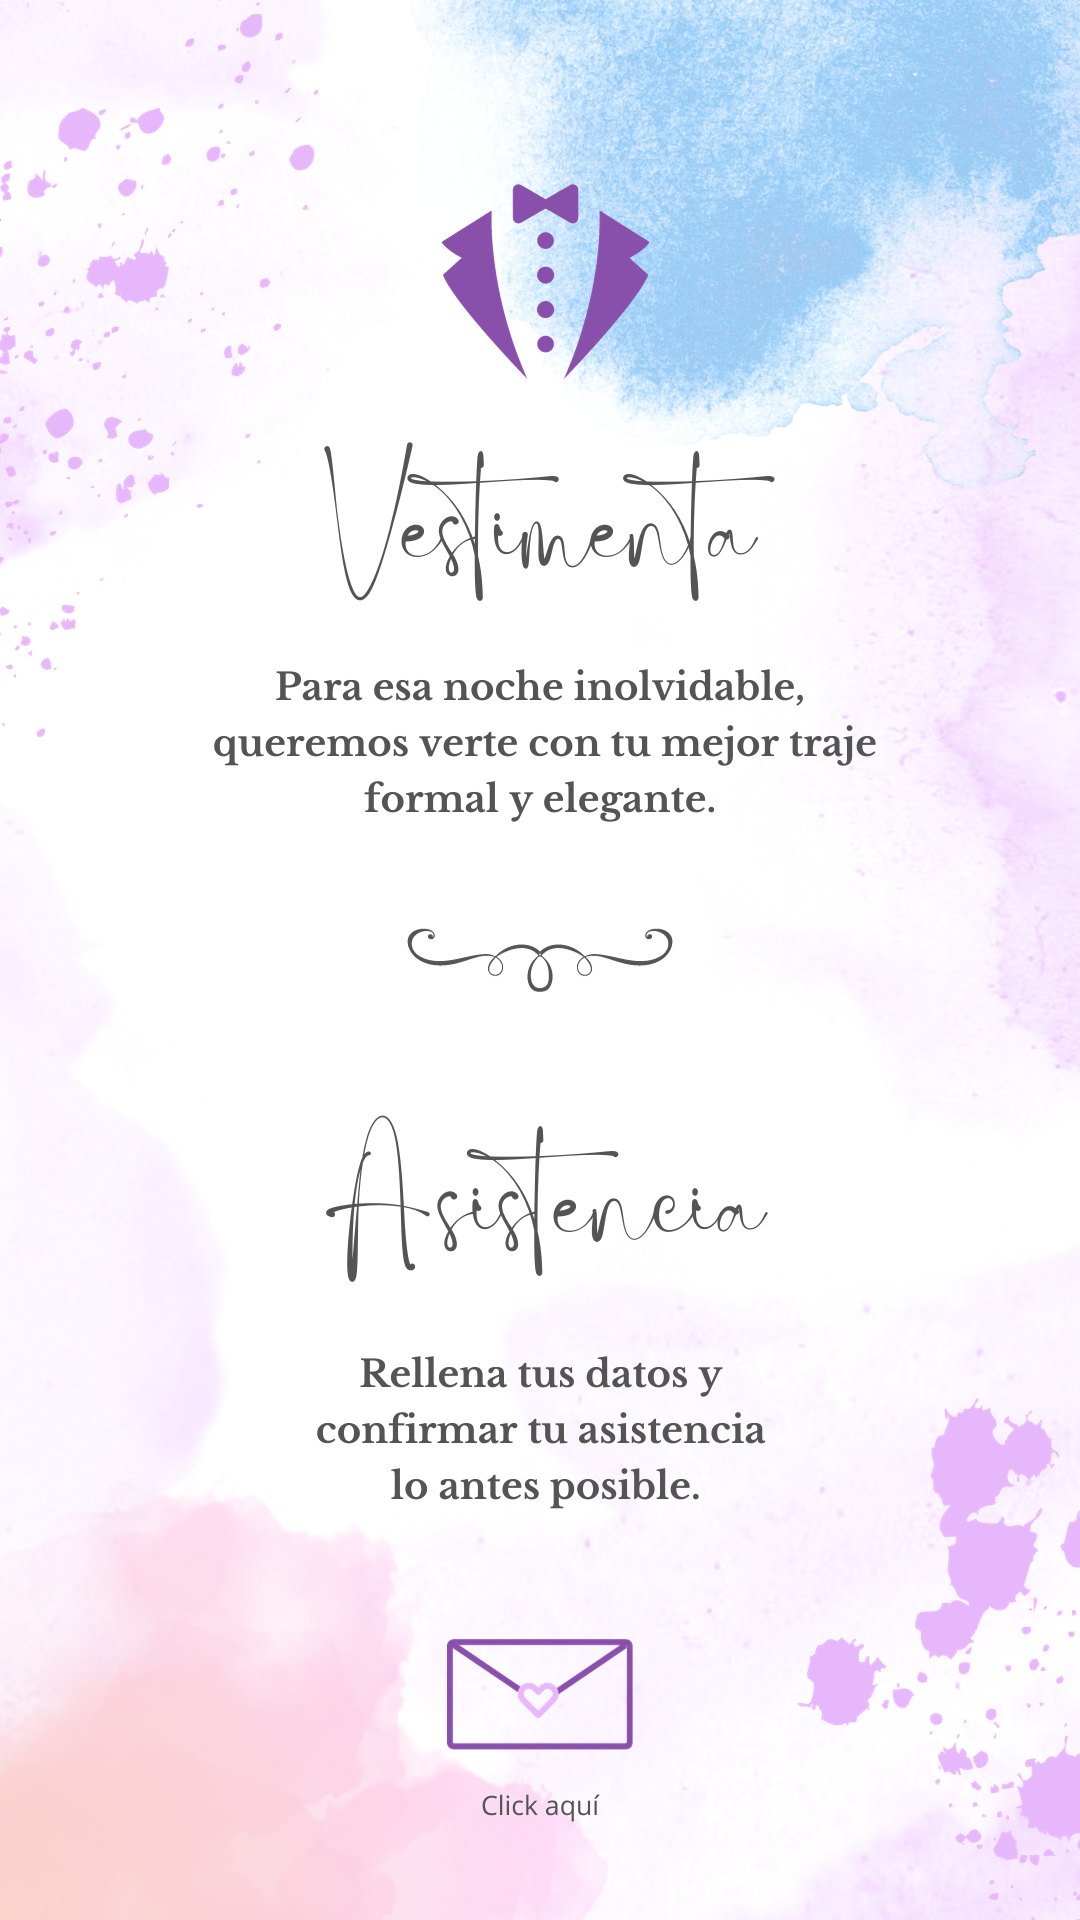
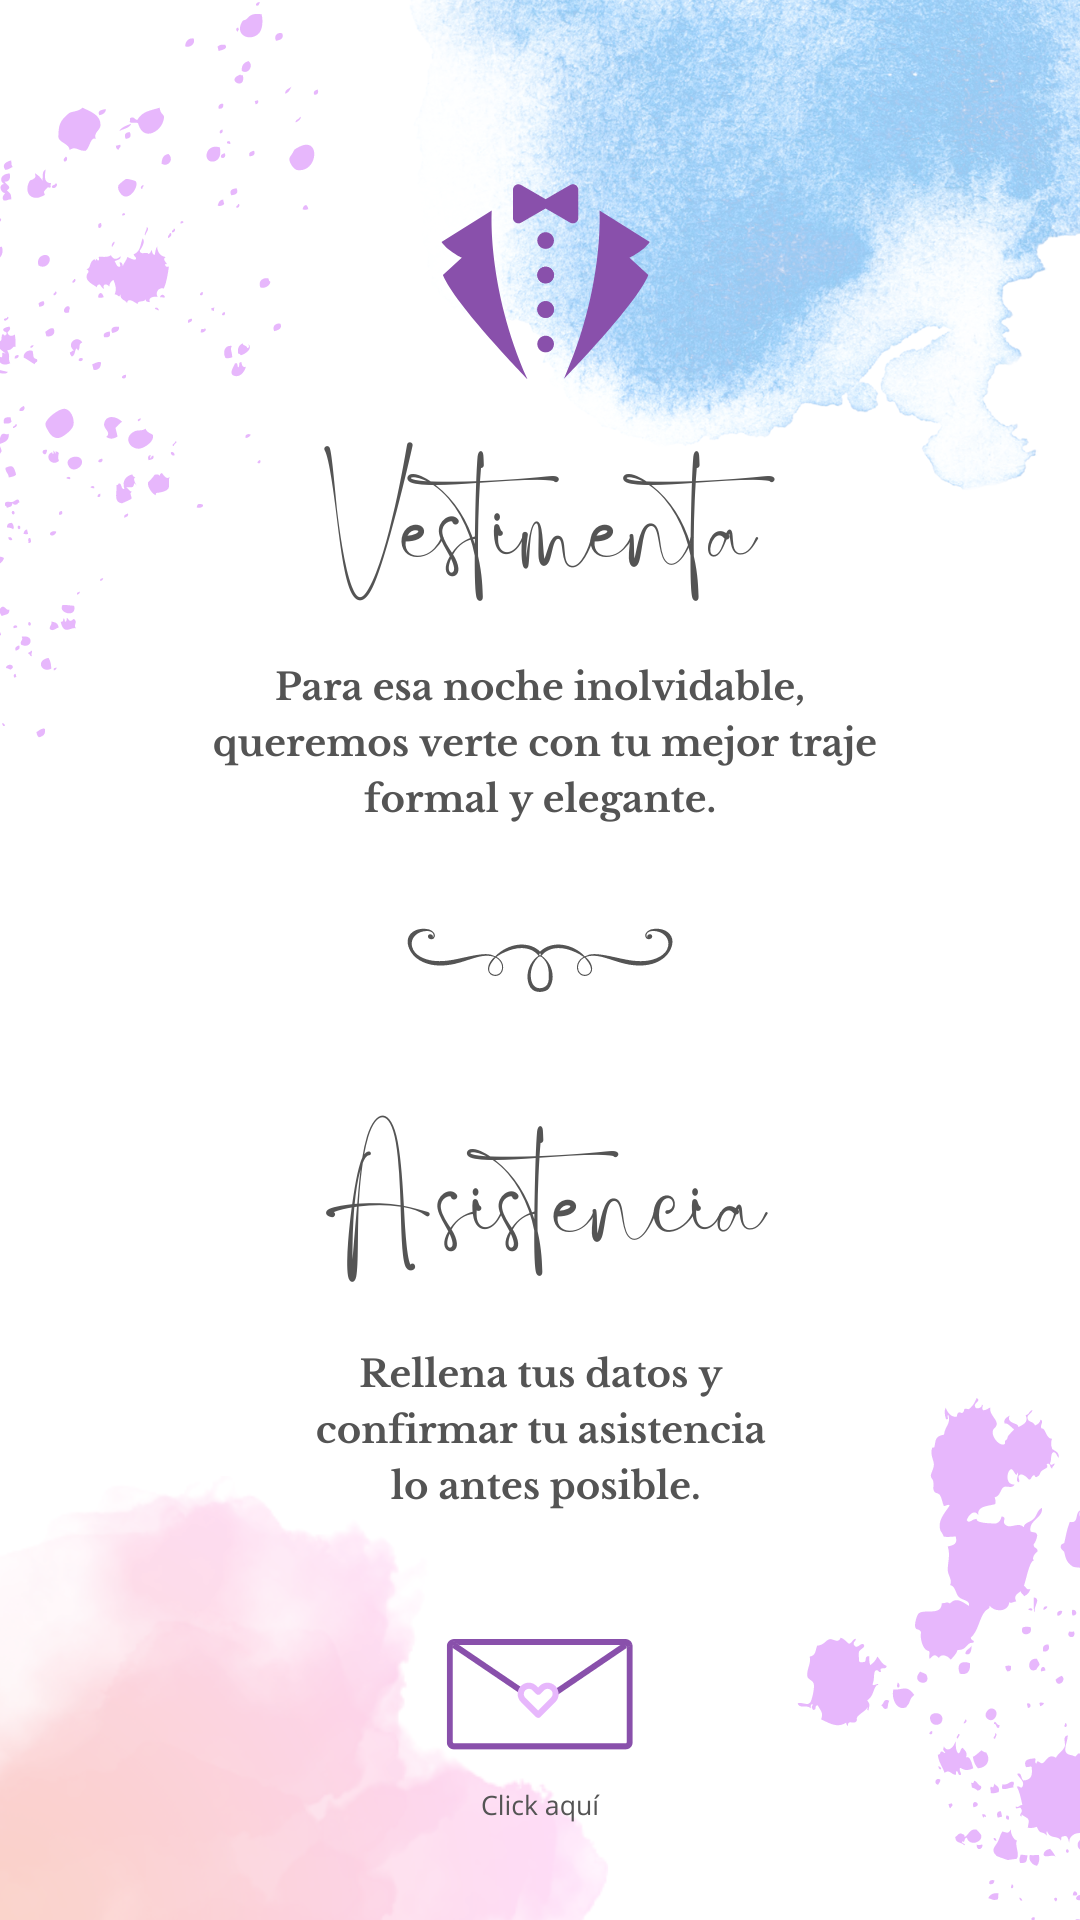
new image

Changed region(s): [[0.8556, 0.125, 1.0, 0.5625], [0.7944, 0.9375, 1.0, 1.0], [0.0, 0.2188, 0.0306, 0.2812]]

diff --git a/index.html b/index.html
@@ -12,11 +12,12 @@
 
 <body>
     <div class="contenedor" onclick="reproducirMusica()">
+
         <img src="./src/Clickaqui.png" alt="" class="gif" id="gifprincipal" loading="lazy">
         <button class="clickmusic"><a href="#gif1">click</a></button>
 
 
-        <img src="./src/1.png" alt="" class="gif" id="gif1" loading="lazy">
+        <img src="./src/1.gif" alt="" class="gif" id="gif1" loading="lazy">
 
         <img src="./src/2.png" alt="" class="gif" id="gif2" loading="lazy">
 
@@ -40,7 +41,7 @@
 
         <img src="./src/9.png" alt="" class="gif" id="gif9" loading="lazy">
 
-        <img src="./src/10.png" alt="" class="gif" id="gif10" loading="lazy">
+        <img src="./src/10.gif" alt="" class="gif" id="gif10" loading="lazy">
     </div>
     <audio id="miAudio" autoplay loop>
         <source src="./Thank you for loving me - Bon Jovi (Violin)_2JIIjn3KH-U.mp3" type="audio/mp3">

diff --git a/style.css b/style.css
@@ -72,3 +72,34 @@ a {
     font-size: 20px;
     color: transparent;
 }
+
+.contenedor1 {
+    position: relative;
+    width: 100%;
+    height: auto;
+    display: block;
+    max-width: 100%;
+    object-fit: contain;
+}
+
+.svg-movimiento {
+    position: absolute;
+    top: 1%;
+    left: 1%;
+    animation: rotar 30s linear infinite;
+    display: block;
+    justify-content: center;
+    align-items: center;
+}
+
+@keyframes rotar {
+    0% {
+        transform: rotate(0deg);
+        /* Comienza sin rotación */
+    }
+
+    100% {
+        transform: rotate(360deg);
+        /* Gira 360 grados en sentido horario */
+    }
+}
